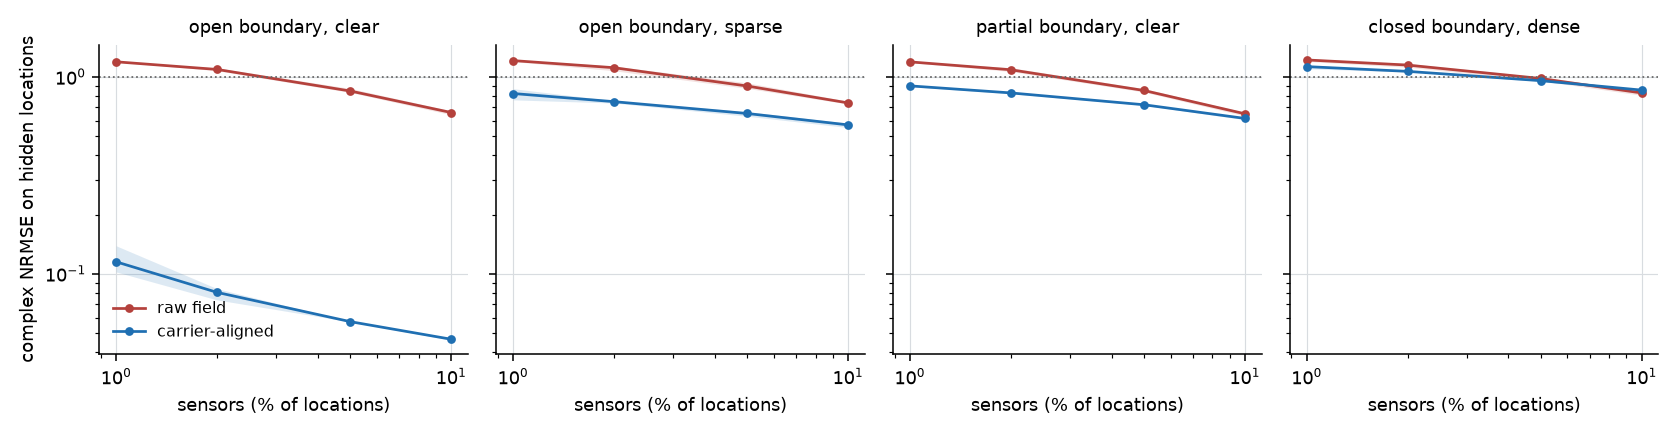
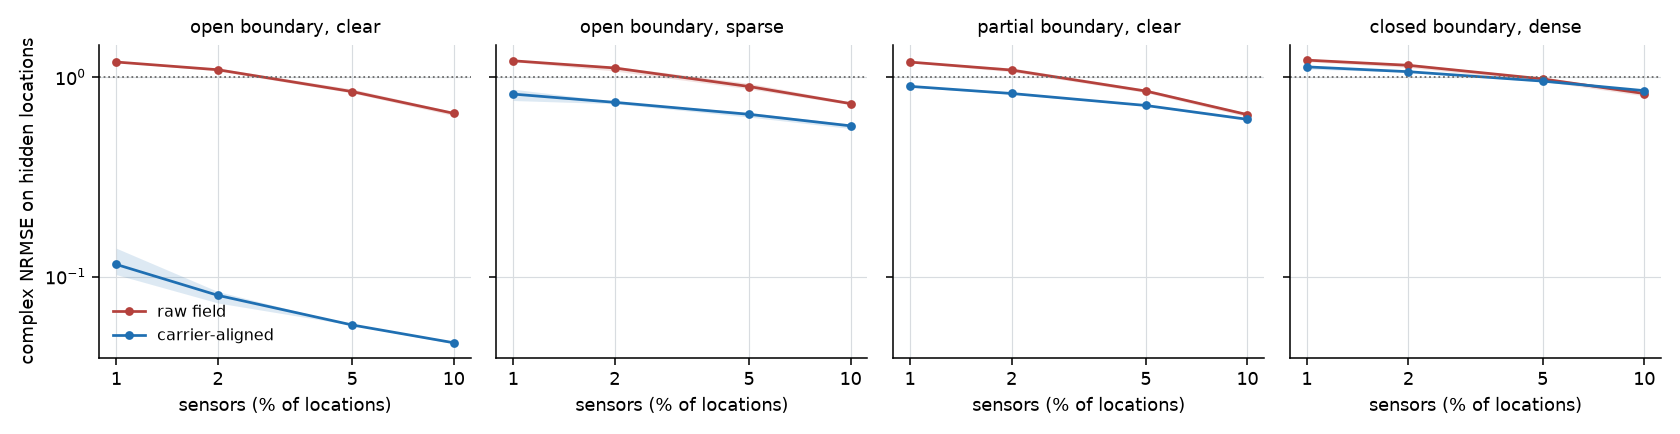
chore: regenerate figures with readable log-axis ticks

diff --git a/experiments/make_figures.py b/experiments/make_figures.py
@@ -93,6 +93,9 @@ def figure_rank_law() -> None:
                   label=f"fit: {slope:.2f}$\\,B\\Lambda$")
         axis.set_xlim(lim)
         axis.set_ylim(lim)
+        for locator in (axis.xaxis, axis.yaxis):
+            locator.set_major_formatter(matplotlib.ticker.ScalarFormatter())
+        axis.minorticks_off()
         axis.set_title(title, fontsize=9)
         axis.set_xlabel("bandwidth $\\times$ delay occupancy  $B\\Lambda$")
         axis.legend(loc="upper left", fontsize=8)
@@ -171,6 +174,8 @@ def figure_task_curves() -> None:
         axis.axhline(1.0, color="#666666", lw=0.9, ls=":")
         axis.set_xscale("log")
         axis.set_yscale("log")
+        axis.minorticks_off()
+        axis.set_xticks([1, 2, 5, 10], ["1", "2", "5", "10"])
         axis.set_title(f"{key[0]} boundary, {key[1]}", fontsize=9)
         axis.set_xlabel("sensors (% of locations)")
     axes[0].set_ylabel("complex NRMSE on hidden locations")
@@ -324,6 +329,7 @@ def figure_multicarrier() -> None:
             axis.plot(budgets[: len(values)], values, "o-", ms=4, lw=1.5, color=color, label=label)
         axis.set_xscale("log")
         axis.set_yscale("log")
+        axis.minorticks_off()
         axis.set_xticks(budgets, [str(b) for b in budgets])
         axis.set_title(regime.replace("_", ", "), fontsize=9)
         axis.set_xlabel("parameter budget $R$")
